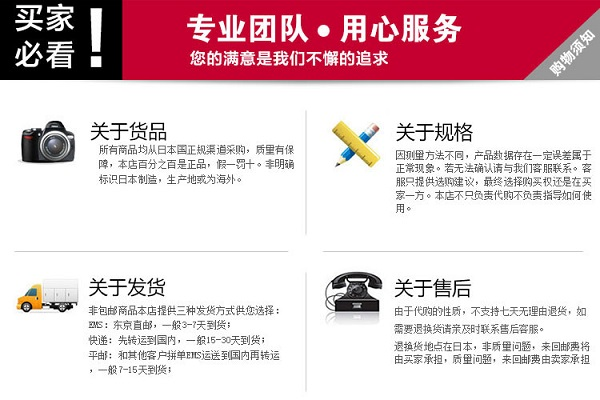
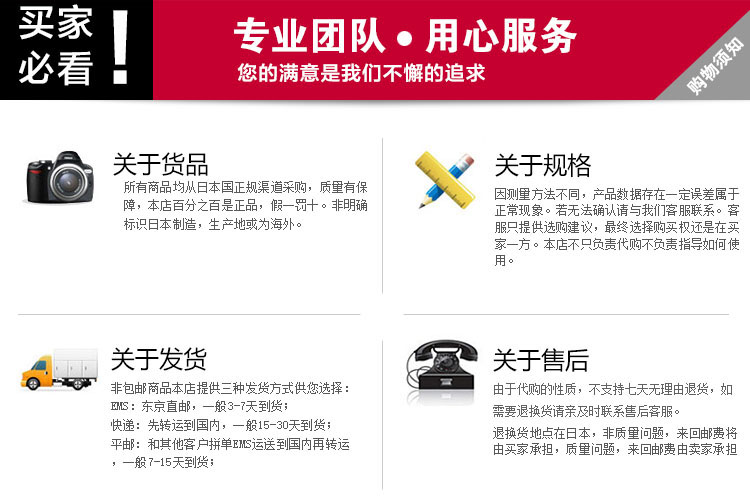
fix image size

diff --git a/Amazon/AmazonJP/GenDescription.py b/Amazon/AmazonJP/GenDescription.py
@@ -6,6 +6,7 @@
 import sys
 sys.path.append('..')
 from Utils import *
+from GenLocalImage import *
 
 
 # 2 ----------------节点与始末图片声明
@@ -45,9 +46,10 @@ def genDescription(feature_list, image_list, product_feature_div_description_lis
         description += addEnter('商品特点：')
         description += addEnter(ul_begin)
         for feature in feature_list:
-            description += li_begin
-            description += feature
-            description += addEnter(li_end)
+            if u'请输入型号验证' not in feature:
+                description += li_begin
+                description += feature
+                description += addEnter(li_end)
         description += addEnter(ul_end)
 
     # 商品图片
@@ -56,7 +58,8 @@ def genDescription(feature_list, image_list, product_feature_div_description_lis
         description += addEnter('商品图片：')
         for image in image_list:
             description += addEnter(br)
-            description += addEnter(img.replace(img_rep, image))
+            local_image = GenLocalImage(image, 750)
+            description += addEnter(img.replace(img_rep, local_image))
 
     # 商品图片描述1
     if product_feature_div_description_list and len(product_feature_div_description_list) > 0:
@@ -65,7 +68,8 @@ def genDescription(feature_list, image_list, product_feature_div_description_lis
         for image in product_feature_div_description_list:
             if 'http' in image:
                 description += addEnter(br)
-                description += addEnter(img.replace(img_rep, image))
+                local_image = GenLocalImage(image, 750)
+                description += addEnter(img.replace(img_rep, local_image))
 
     # 商品图片描述2
     if aplus_feature_div_description_list and len(aplus_feature_div_description_list) > 0:
@@ -74,7 +78,8 @@ def genDescription(feature_list, image_list, product_feature_div_description_lis
         for image in aplus_feature_div_description_list:
             if 'http' in image:
                 description += addEnter(br)
-                description += addEnter(img.replace(img_rep, image))
+                local_image = GenLocalImage(image, 750)
+                description += addEnter(img.replace(img_rep, local_image))
 
     # 评论
     if comment_image_text_list and len(comment_image_text_list) > 0:
@@ -82,7 +87,8 @@ def genDescription(feature_list, image_list, product_feature_div_description_lis
         description += addEnter('评论图片：')
         for image in comment_image_text_list:
             description += addEnter(br)
-            description += addEnter(img.replace(img_rep, image))
+            local_image = GenLocalImage(image, 750)
+            description += addEnter(img.replace(img_rep, local_image))
 
     # 商家末尾图片
     description += addEnter(br)

diff --git a/Amazon/AmazonJP/GenWirelessDesc.py b/Amazon/AmazonJP/GenWirelessDesc.py
@@ -43,7 +43,8 @@ def genWirelessDesc(title, feature_list, image_list, product_feature_div_descrip
     # 商品特点
     if feature_list and len(feature_list) > 0:
         for feature in feature_list:
-            description += addEnter(txt.replace(txt_reg, feature))
+            if u'请输入型号验证' not in feature:
+                description += addEnter(txt.replace(txt_reg, feature))
 
     # 商品图片
     if image_list and len(image_list) > 0:
@@ -55,7 +56,7 @@ def genWirelessDesc(title, feature_list, image_list, product_feature_div_descrip
     if product_feature_div_description_list and len(product_feature_div_description_list) > 0:
         for content in product_feature_div_description_list:
             if re.search(r'.*http.*',content) != None:
-                local_image = GenLocalImage(content,600)
+                local_image = GenLocalImage(content, 600)
                 description += addEnter(img.replace(img_reg, local_image))
             else:
                 description += addEnter(txt.replace(txt_reg, str(content)))
@@ -64,7 +65,7 @@ def genWirelessDesc(title, feature_list, image_list, product_feature_div_descrip
     if aplus_feature_div_description_list and len(aplus_feature_div_description_list) > 0:
         for content in aplus_feature_div_description_list:
             if 'http' in content:
-                local_image = GenLocalImage(content,600)
+                local_image = GenLocalImage(content, 600)
                 description += addEnter(img.replace(img_reg, local_image))
             # elif u'了解更多' not in content:
             else:
@@ -74,7 +75,7 @@ def genWirelessDesc(title, feature_list, image_list, product_feature_div_descrip
     if comment_image_text_list and len(comment_image_text_list) > 0:
         for content in comment_image_text_list:
             if 'http' in content:
-                local_image = GenLocalImage(content,600)
+                local_image = GenLocalImage(content, 600)
                 description += addEnter(img.replace(img_reg, local_image))
             # elif u'了解更多' not in content:
             else:
